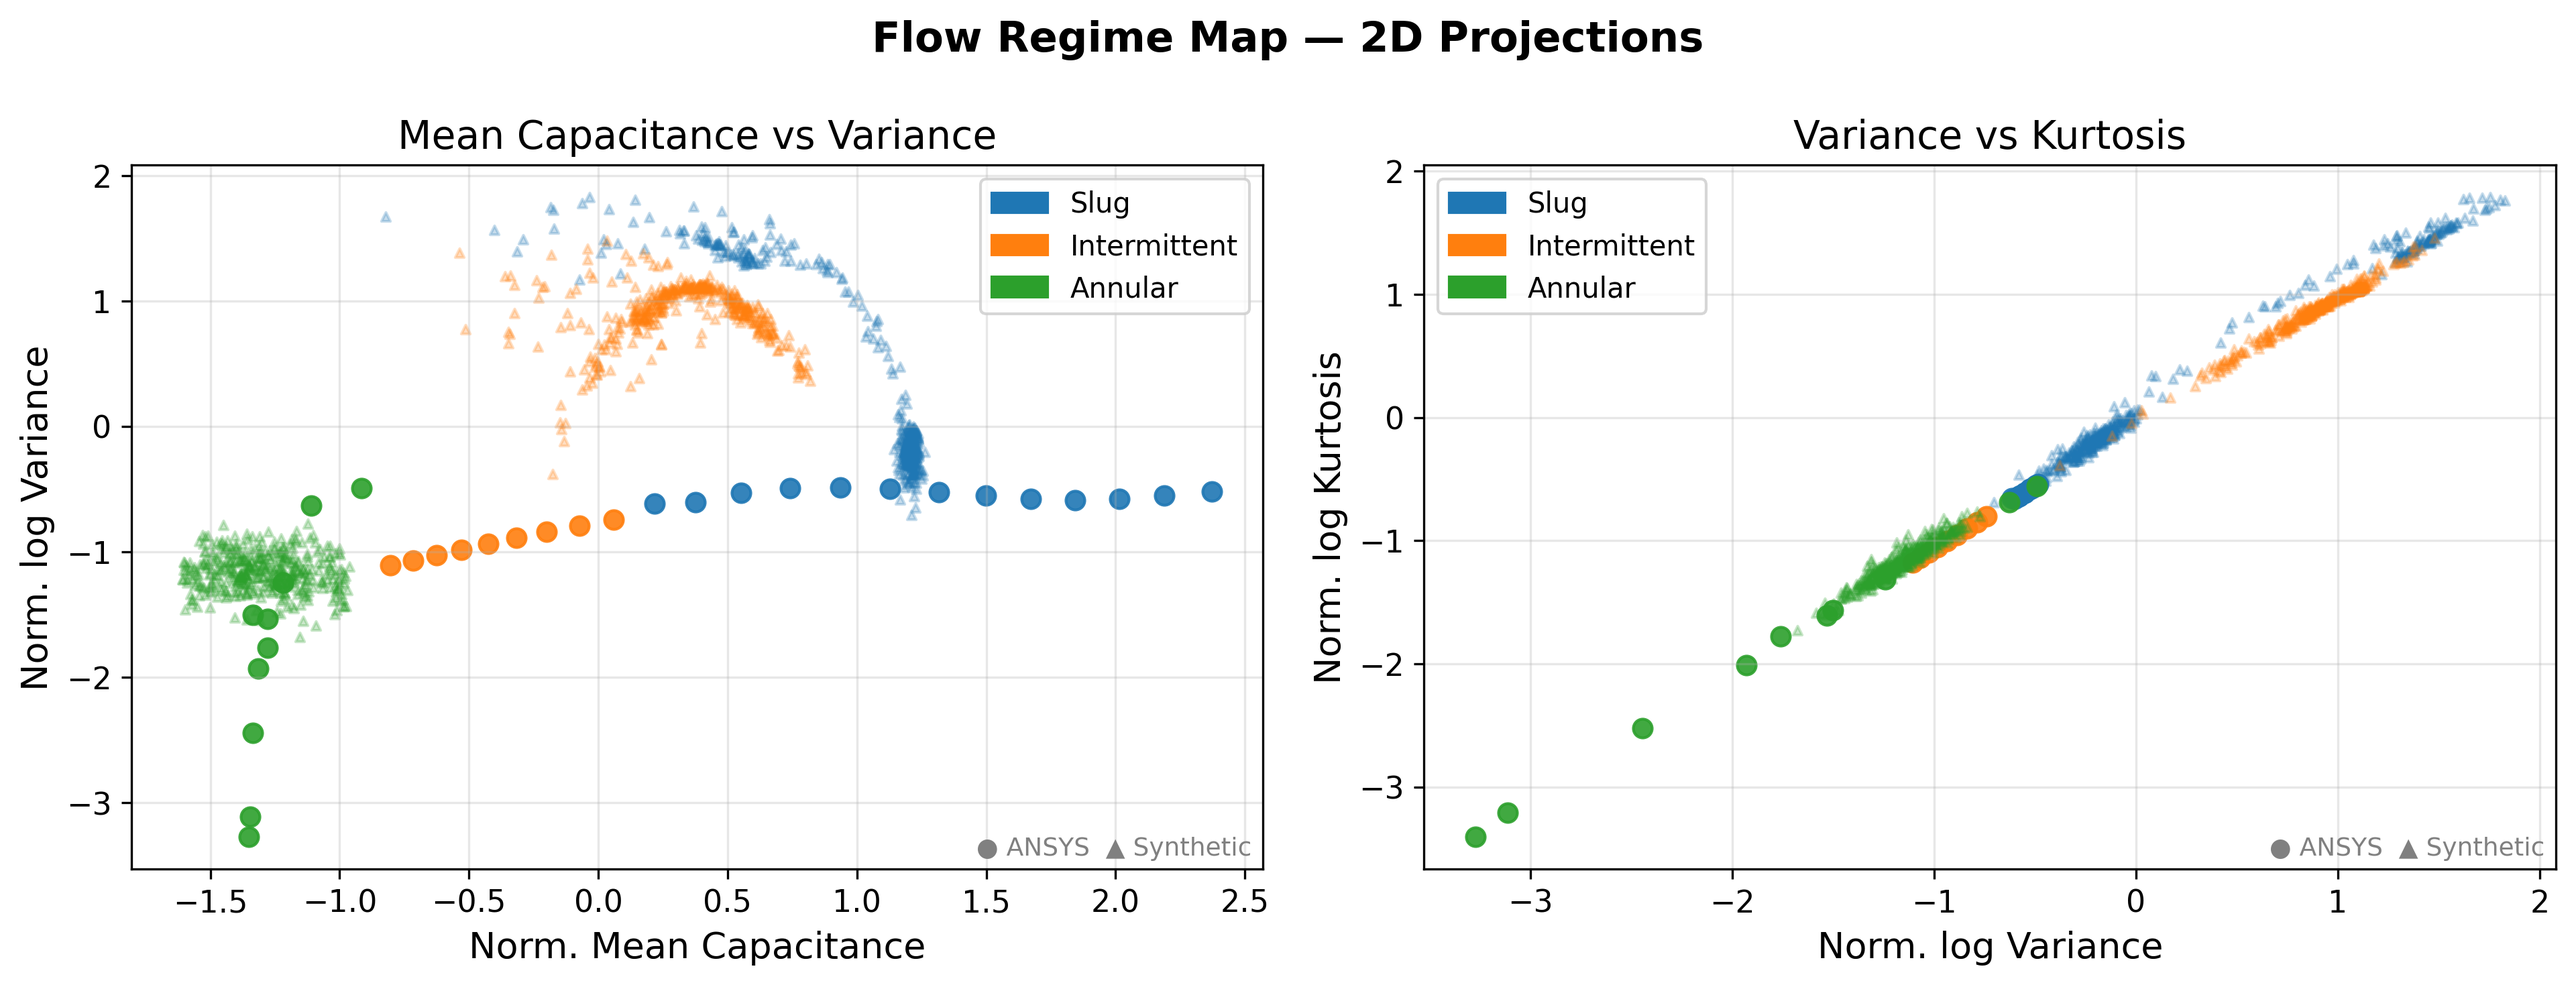
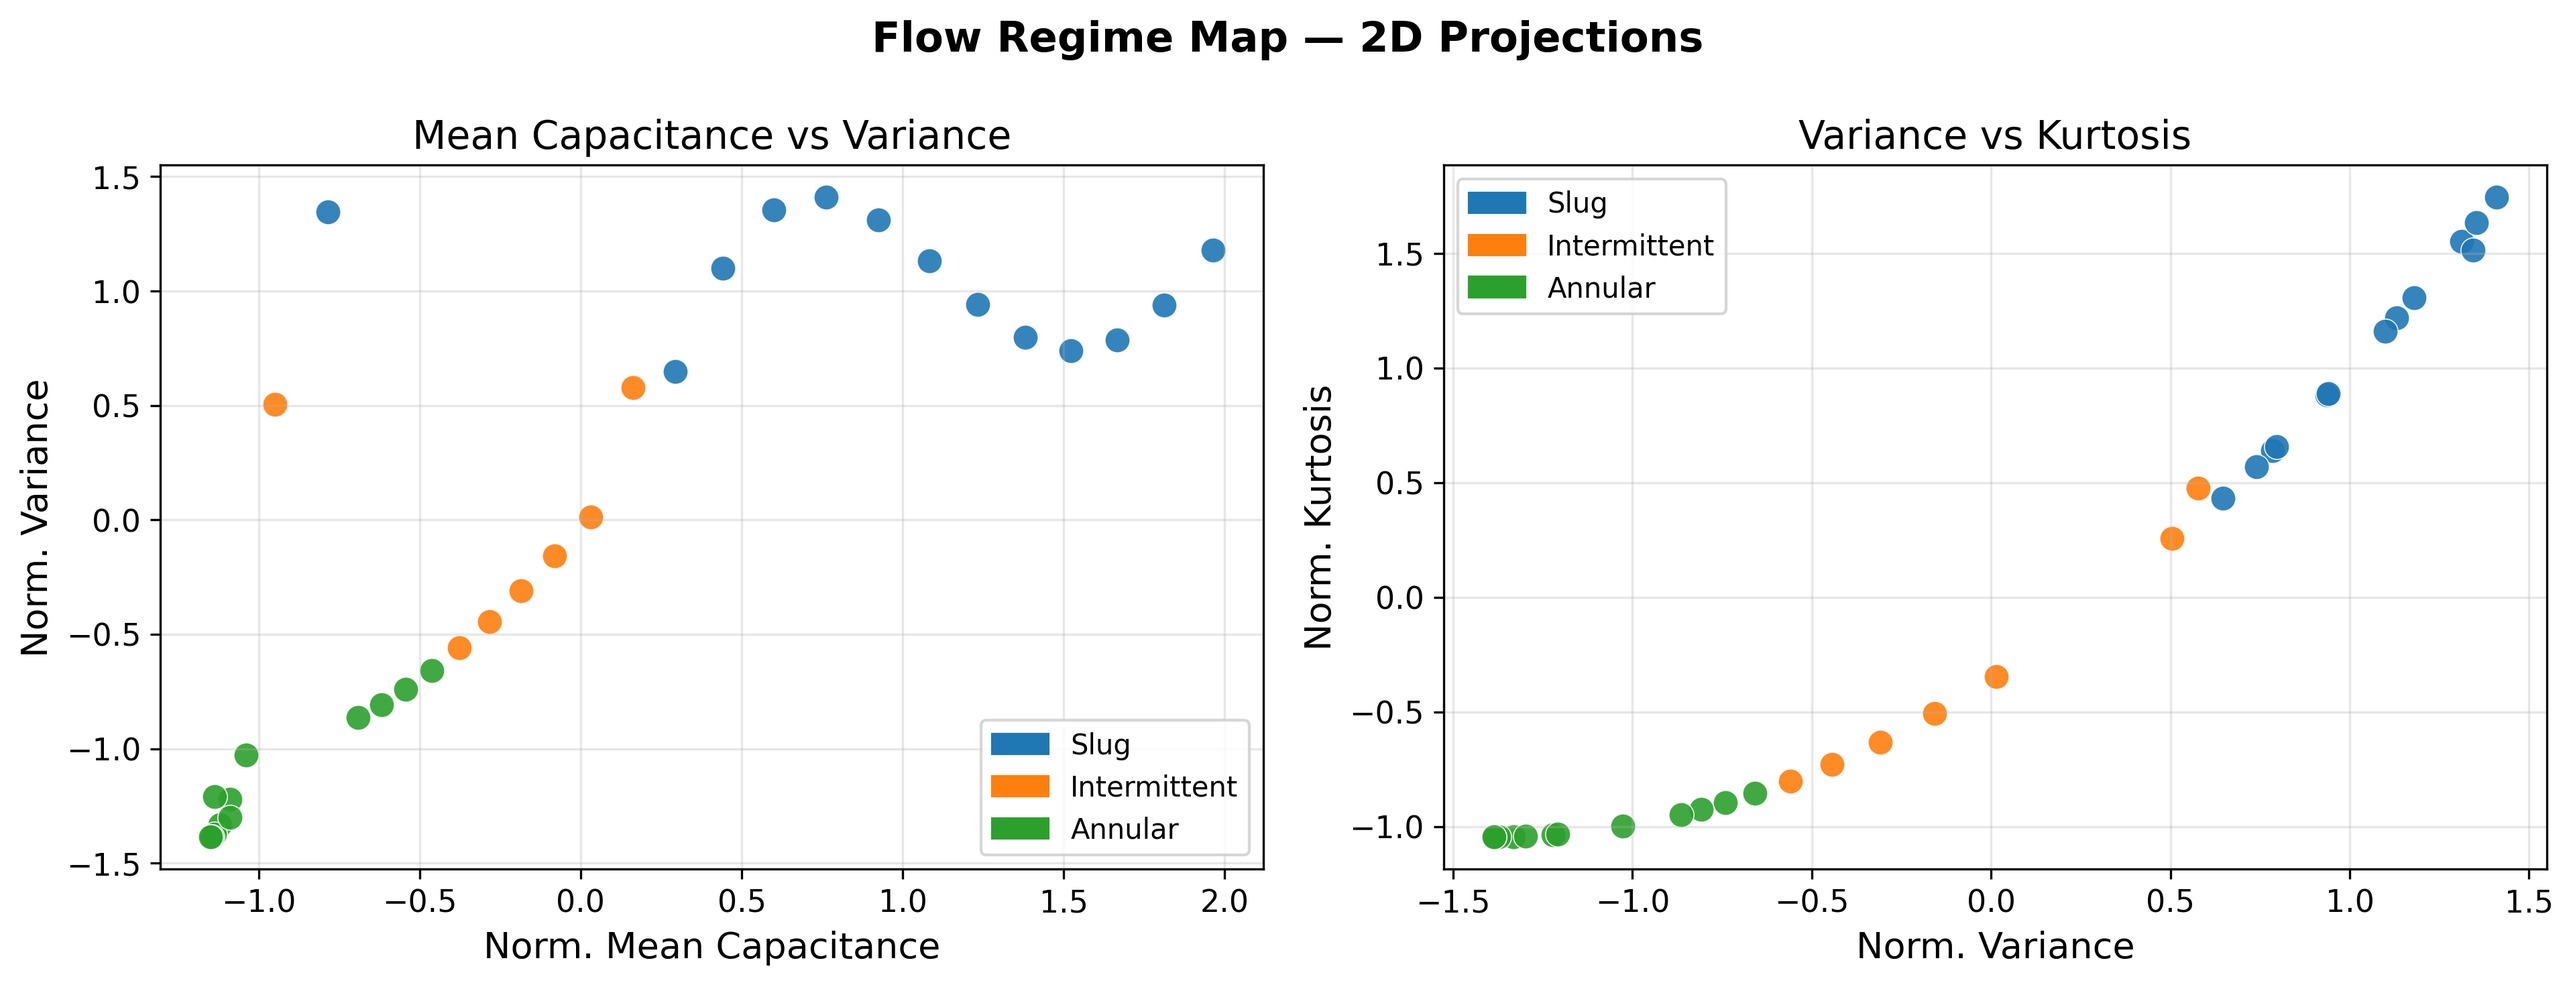
fix: show ANSYS-only FCM-normalized features in scatter plots for clean cluster separation

diff --git a/instrumentation/demo.py b/instrumentation/demo.py
@@ -14,7 +14,6 @@ import matplotlib.pyplot as plt
 import numpy as np
 import pandas as pd
 from sklearn.exceptions import ConvergenceWarning
-from sklearn.preprocessing import StandardScaler
 
 from instrumentation.flow_regime import (
     REGIME_NAMES,
@@ -39,7 +38,6 @@ _N_SYNTH: int = 200
 _DURATION_S: float = 2.0
 _RATE_HZ: float = 200.0
 _K_CORR: float = 0.002
-_N_SCATTER: int = 20
 
 _COLORS: dict[str, str] = {
     "Slug": "#1f77b4",
@@ -59,13 +57,6 @@ def _configure_mpl() -> None:
         "legend.fontsize": 11,
         "figure.titlesize": 15,
     })
-
-
-def _log_transform(features: np.ndarray) -> np.ndarray:
-    result = features.copy()
-    result[:, 1] = np.log10(np.maximum(features[:, 1], 1e-60))
-    result[:, 2] = np.log10(np.maximum(features[:, 2], 1e-60))
-    return result
 
 
 def _save(fig: plt.Figure, name: str) -> None:
@@ -127,73 +118,49 @@ def _fig2_void_fraction_pipeline(dataset: dict) -> None:
     _save(fig, "void_fraction_pipeline.png")
 
 
-def _fig3_flow_regime_map_3d(
-    ansys_viz: np.ndarray,
-    ansys_y: np.ndarray,
-    synth_viz: np.ndarray,
-    synth_y: np.ndarray,
-) -> None:
-    fig = plt.figure(figsize=(10, 8))
+def _fig3_flow_regime_map_3d(X: np.ndarray, labels: np.ndarray) -> None:
+    fig = plt.figure(figsize=(9, 7))
     ax = fig.add_subplot(111, projection="3d")
 
     for idx, regime in enumerate(REGIME_NAMES):
-        c = _COLORS[regime]
-        ma, ms = ansys_y == idx, synth_y == idx
+        m = labels == idx
         ax.scatter(
-            ansys_viz[ma, 0], ansys_viz[ma, 1], ansys_viz[ma, 2],
-            c=c, marker="o", s=70, alpha=0.9, depthshade=True,
-            label=f"{regime} (ANSYS)",
-        )
-        ax.scatter(
-            synth_viz[ms, 0], synth_viz[ms, 1], synth_viz[ms, 2],
-            c=c, marker="^", s=14, alpha=0.25, depthshade=True,
-            label=f"{regime} (Synthetic)",
+            X[m, 0], X[m, 1], X[m, 2],
+            c=_COLORS[regime], marker="o", s=130, alpha=0.92,
+            depthshade=True, label=regime,
+            edgecolors="white", linewidths=0.5,
         )
 
     ax.set_xlabel("Norm. Mean Capacitance", labelpad=10)
-    ax.set_ylabel("Norm. log Variance", labelpad=10)
-    ax.set_zlabel("Norm. log Kurtosis", labelpad=10)
-    ax.set_title("Flow Regime Map — 3D Feature Space", pad=14)
-    ax.view_init(elev=25, azim=45)
-    ax.legend(loc="upper left", fontsize=8, ncol=2)
+    ax.set_ylabel("Norm. Variance", labelpad=10)
+    ax.set_zlabel("Norm. Kurtosis", labelpad=10)
+    ax.set_title("Flow Regime Feature Space — FCM Clustering", pad=12)
+    ax.view_init(elev=25, azim=225)
+    ax.legend(fontsize=11, loc="upper left")
 
     fig.tight_layout()
     _save(fig, "flow_regime_map_3d.png")
 
 
-def _fig4_flow_regime_map_2d(
-    ansys_viz: np.ndarray,
-    ansys_y: np.ndarray,
-    synth_viz: np.ndarray,
-    synth_y: np.ndarray,
-) -> None:
+def _fig4_flow_regime_map_2d(X: np.ndarray, labels: np.ndarray) -> None:
     fig, axes = plt.subplots(1, 2, figsize=(13, 5))
     legend_patches = [mpatches.Patch(color=_COLORS[r], label=r) for r in REGIME_NAMES]
 
-    for idx in range(len(REGIME_NAMES)):
-        c = _COLORS[REGIME_NAMES[idx]]
-        ma, ms = ansys_y == idx, synth_y == idx
-
-        axes[0].scatter(ansys_viz[ma, 0], ansys_viz[ma, 1], c=c, marker="o", s=45, alpha=0.9)
-        axes[0].scatter(synth_viz[ms, 0], synth_viz[ms, 1], c=c, marker="^", s=10, alpha=0.25)
-
-        axes[1].scatter(ansys_viz[ma, 1], ansys_viz[ma, 2], c=c, marker="o", s=45, alpha=0.9)
-        axes[1].scatter(synth_viz[ms, 1], synth_viz[ms, 2], c=c, marker="^", s=10, alpha=0.25)
+    for idx, regime in enumerate(REGIME_NAMES):
+        c = _COLORS[regime]
+        m = labels == idx
+        axes[0].scatter(X[m, 0], X[m, 1], c=c, s=80, alpha=0.9, edgecolors="white", linewidths=0.4)
+        axes[1].scatter(X[m, 1], X[m, 2], c=c, s=80, alpha=0.9, edgecolors="white", linewidths=0.4)
 
     for ax, xlabel, ylabel, title in [
-        (axes[0], "Norm. Mean Capacitance", "Norm. log Variance", "Mean Capacitance vs Variance"),
-        (axes[1], "Norm. log Variance", "Norm. log Kurtosis", "Variance vs Kurtosis"),
+        (axes[0], "Norm. Mean Capacitance", "Norm. Variance", "Mean Capacitance vs Variance"),
+        (axes[1], "Norm. Variance", "Norm. Kurtosis", "Variance vs Kurtosis"),
     ]:
         ax.set_xlabel(xlabel)
         ax.set_ylabel(ylabel)
         ax.set_title(title)
         ax.grid(True, alpha=0.3)
         ax.legend(handles=legend_patches, fontsize=10)
-        ax.annotate(
-            "● ANSYS  ▲ Synthetic",
-            xy=(0.99, 0.02), xycoords="axes fraction",
-            ha="right", fontsize=9, color="gray",
-        )
 
     fig.suptitle("Flow Regime Map — 2D Projections", fontweight="bold")
     fig.tight_layout()
@@ -267,20 +234,7 @@ def main() -> None:
 
     combined = pd.concat([slug_aug, intermittent_aug, annular_raw]).sort_values("time")
     ansys_features = extract_features(combined["capacitance"].values, _WINDOW_SIZE)
-    fcm, _, _, label_map = fit_classifier(ansys_features)
-
-    regime_row_labels = np.concatenate([
-        np.zeros(len(slug_aug), dtype=int),
-        np.ones(len(intermittent_aug), dtype=int),
-        np.full(len(annular_raw), 2, dtype=int),
-    ])
-    ansys_true_labels = np.array([
-        np.bincount(
-            regime_row_labels[i * _WINDOW_SIZE : (i + 1) * _WINDOW_SIZE],
-            minlength=3,
-        ).argmax()
-        for i in range(len(ansys_features))
-    ])
+    fcm, scaler, labels, label_map = fit_classifier(ansys_features)
 
     inv_map = {v: k for k, v in label_map.items()}
     separation = float(np.linalg.norm(fcm.centers[inv_map[0]] - fcm.centers[inv_map[2]]))
@@ -291,27 +245,13 @@ def main() -> None:
     print(f"  Cluster separation: slug/annular centroid distance = {separation:.2f}")
     print()
 
-    synth_feats_list: list[np.ndarray] = []
-    synth_label_list: list[int] = []
-    for true_idx, key in enumerate(_REGIME_KEYS):
-        for _, C in dataset[key][: _N_SCATTER]:
-            f = extract_features(C, _WINDOW_SIZE)
-            synth_feats_list.append(f)
-            synth_label_list.extend([true_idx] * len(f))
-    synth_feats_raw = np.vstack(synth_feats_list)
-    synth_labels = np.array(synth_label_list)
-
-    ansys_log = _log_transform(ansys_features)
-    synth_log = _log_transform(synth_feats_raw)
-    viz_scaler = StandardScaler().fit(np.vstack([ansys_log, synth_log]))
-    ansys_viz = viz_scaler.transform(ansys_log)
-    synth_viz = viz_scaler.transform(synth_log)
+    ansys_scaled = scaler.transform(ansys_features)
 
     print("[4/4] Generating visualizations...")
     _fig1_signal_examples(dataset)
     _fig2_void_fraction_pipeline(dataset)
-    _fig3_flow_regime_map_3d(ansys_viz, ansys_true_labels, synth_viz, synth_labels)
-    _fig4_flow_regime_map_2d(ansys_viz, ansys_true_labels, synth_viz, synth_labels)
+    _fig3_flow_regime_map_3d(ansys_scaled, labels)
+    _fig4_flow_regime_map_2d(ansys_scaled, labels)
     _fig5_regime_distribution(
         ansys_df,
         {"Slug": slug_aug, "Intermittent": intermittent_aug, "Annular": annular_raw},
